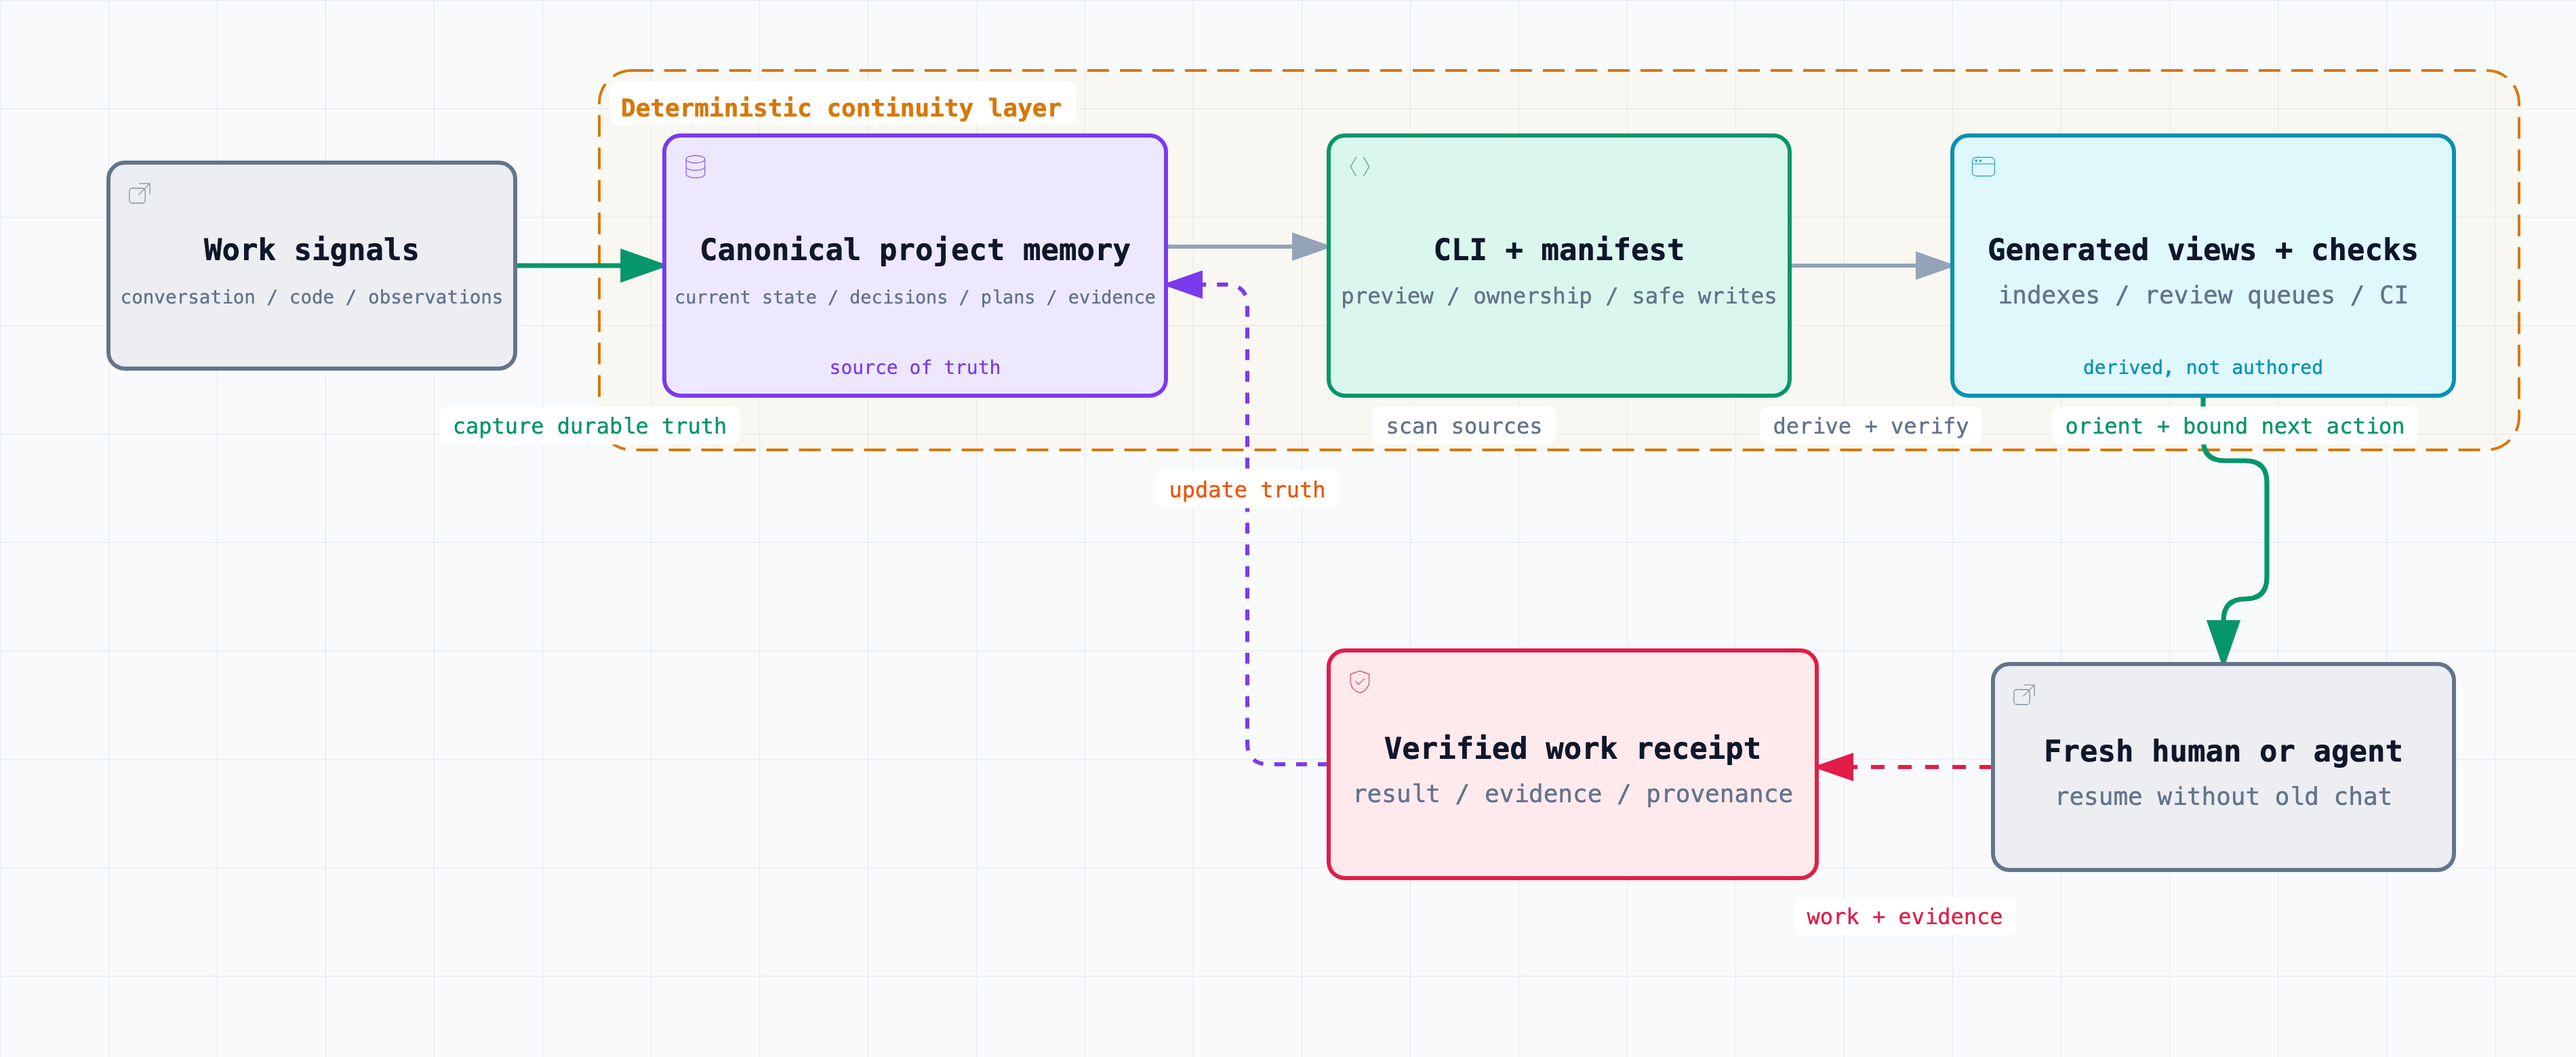
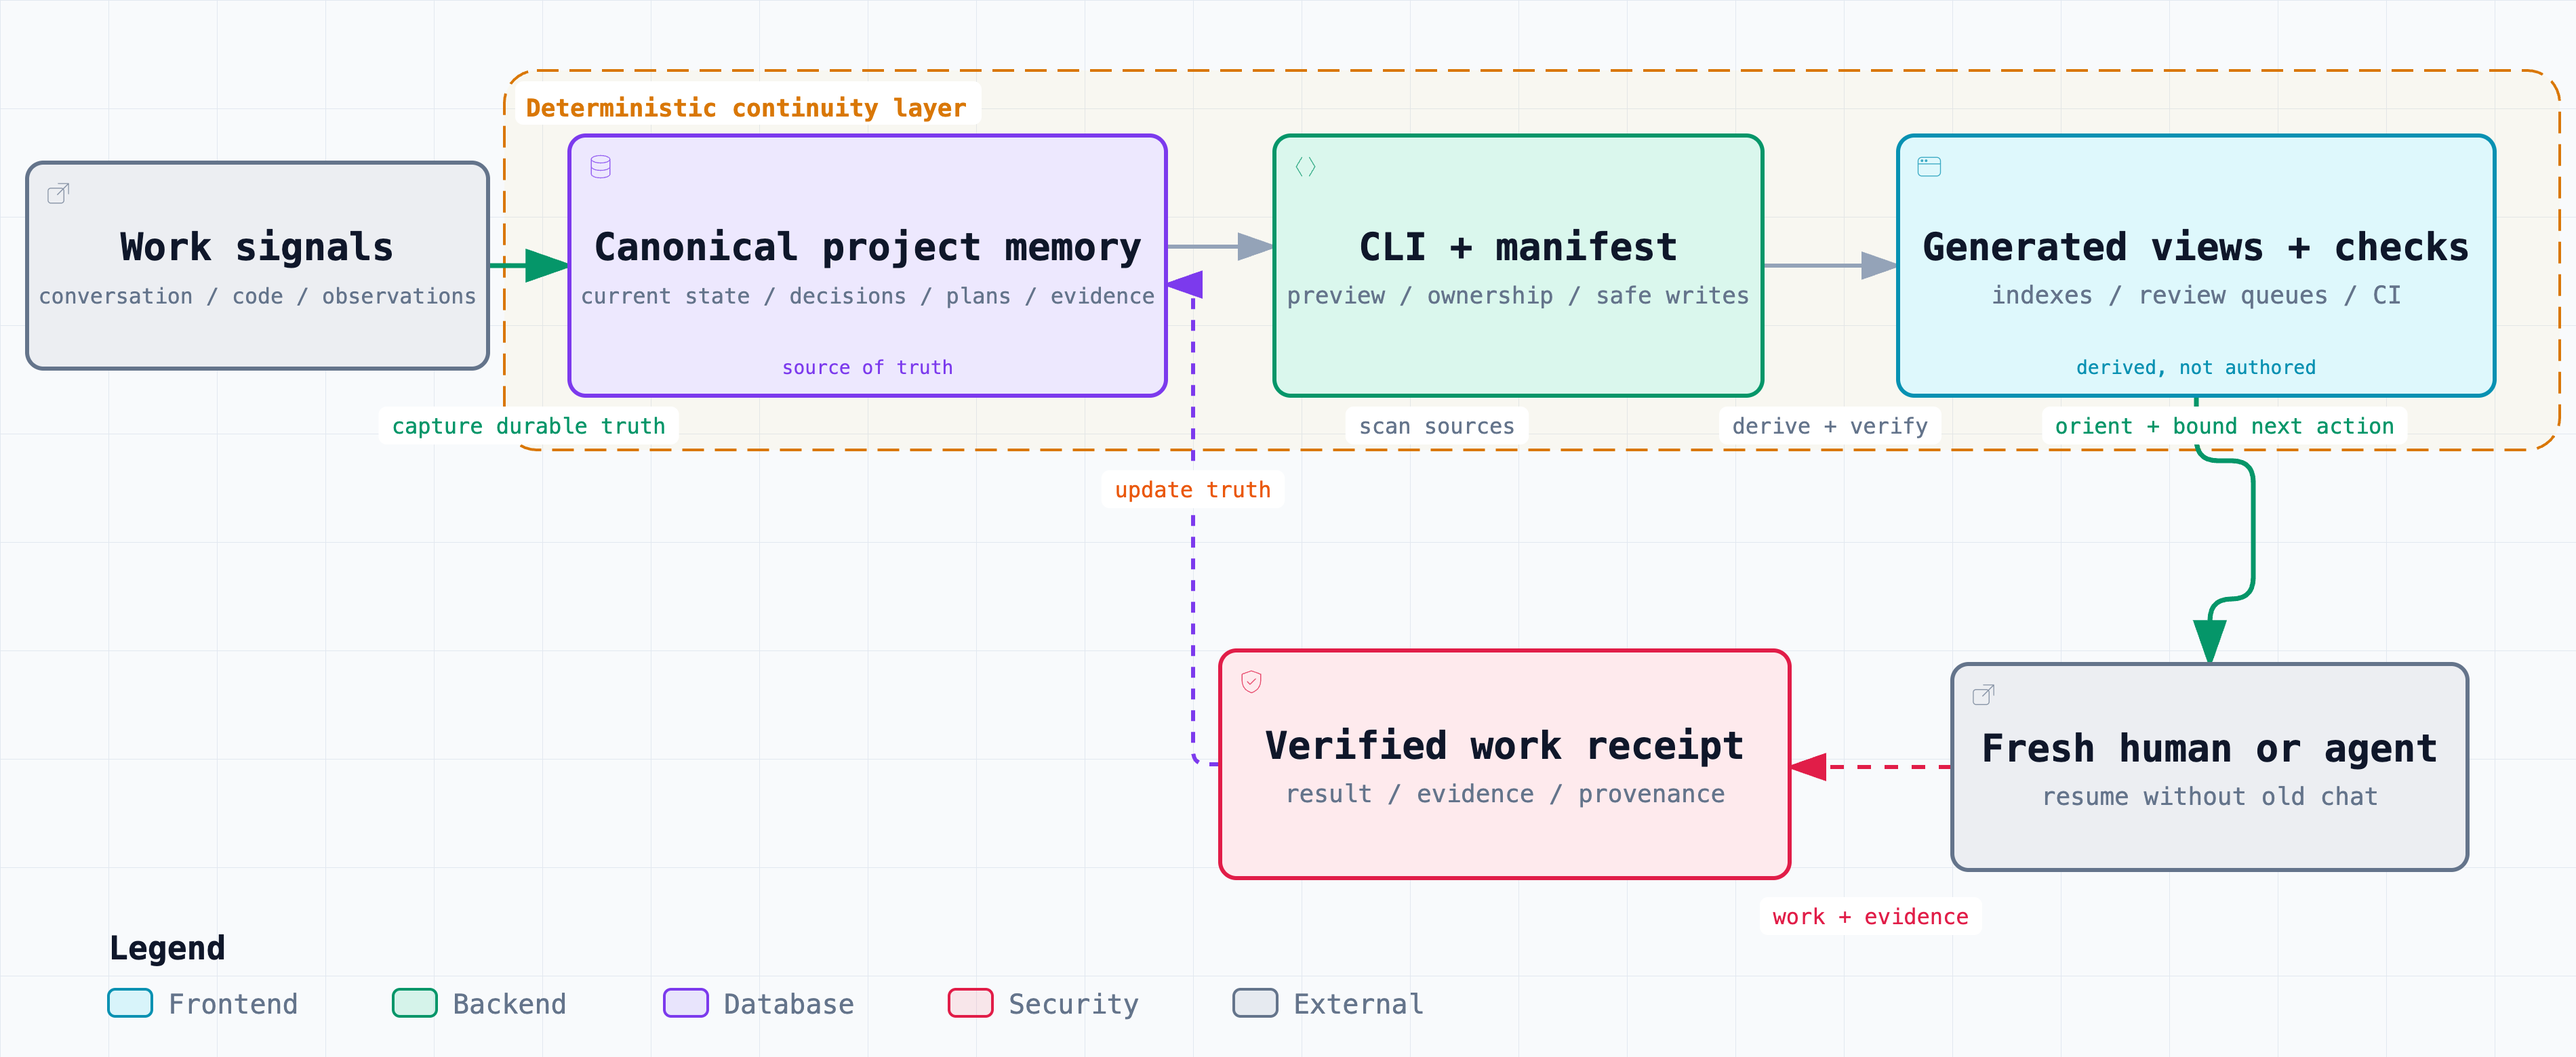
docs(readme): Enlarge architecture node labels
Why:
- Primary box titles remained difficult to read at GitHub's rendered README width
- The legend still helped decode component roles once it belonged to the diagram itself

What:
- Increase the exported primary node labels to 14px at 700 weight
- Widen and rebalance node boxes so longer titles retain clear borders
- Restore a compact legend at the diagram's true bottom-left edge
- Keep secondary descriptions and relationship labels visually subordinate

Verification: Archify showcase validation 9/9; visual-check containment at four desktop sizes in both themes; scripts/release-check; git diff --check
Codex-Thread: 01a049f2-11d2-7932-9b64-0488c104e997

diff --git a/CHANGELOG.md b/CHANGELOG.md
@@ -8,8 +8,9 @@ another repository installs, runs, verifies, or reuses Agent Continuity.
 
 ### For adopters
 
-- Reframed the README architecture visual as a canonical diagram export so its
-  system flow remains readable without promotional share-card chrome.
+- Reframed the README architecture visual as a canonical diagram export with
+  larger primary node labels and a compact bottom-left legend, without
+  promotional share-card chrome.
 
 ## 2026.08.26.1
 
